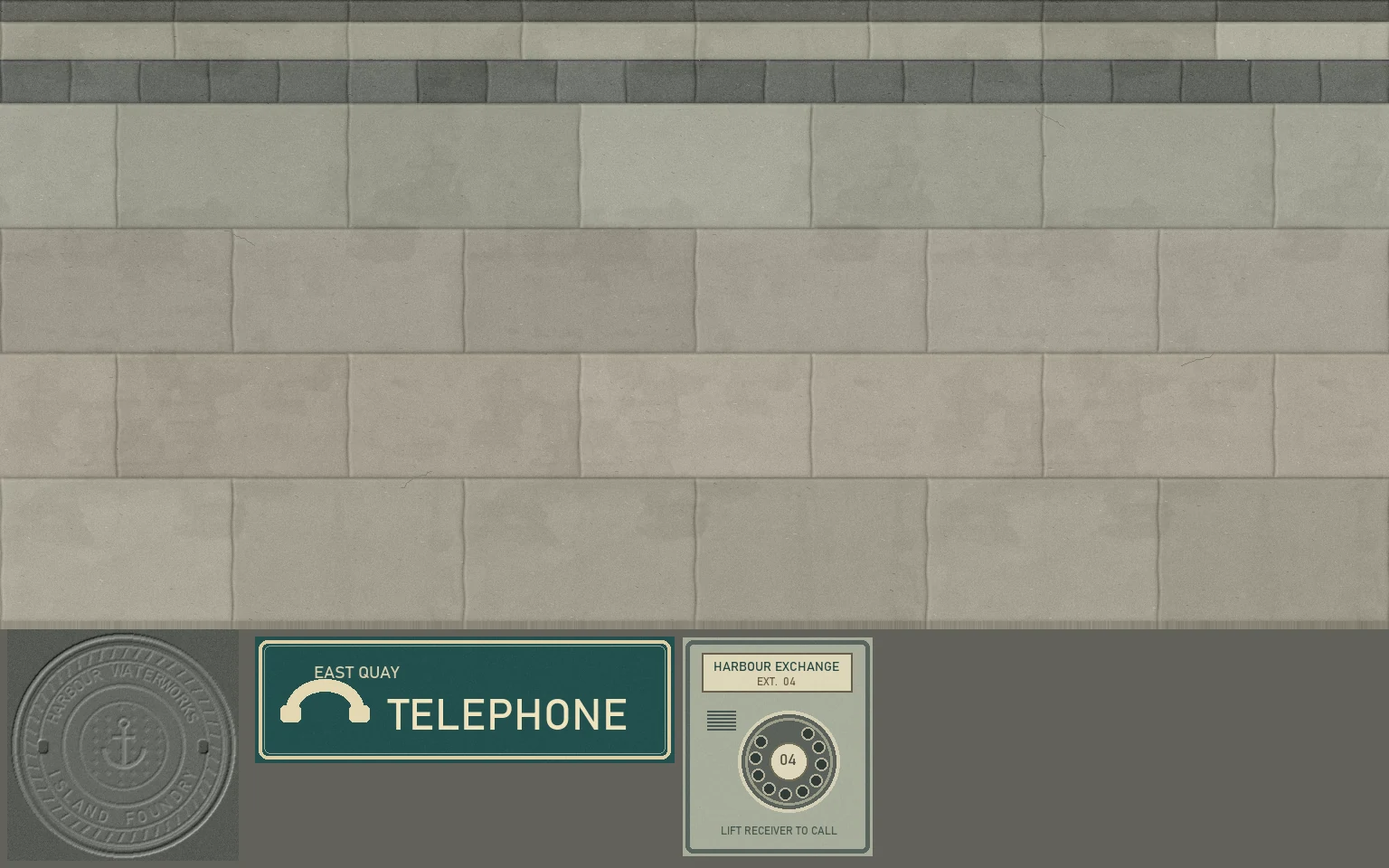
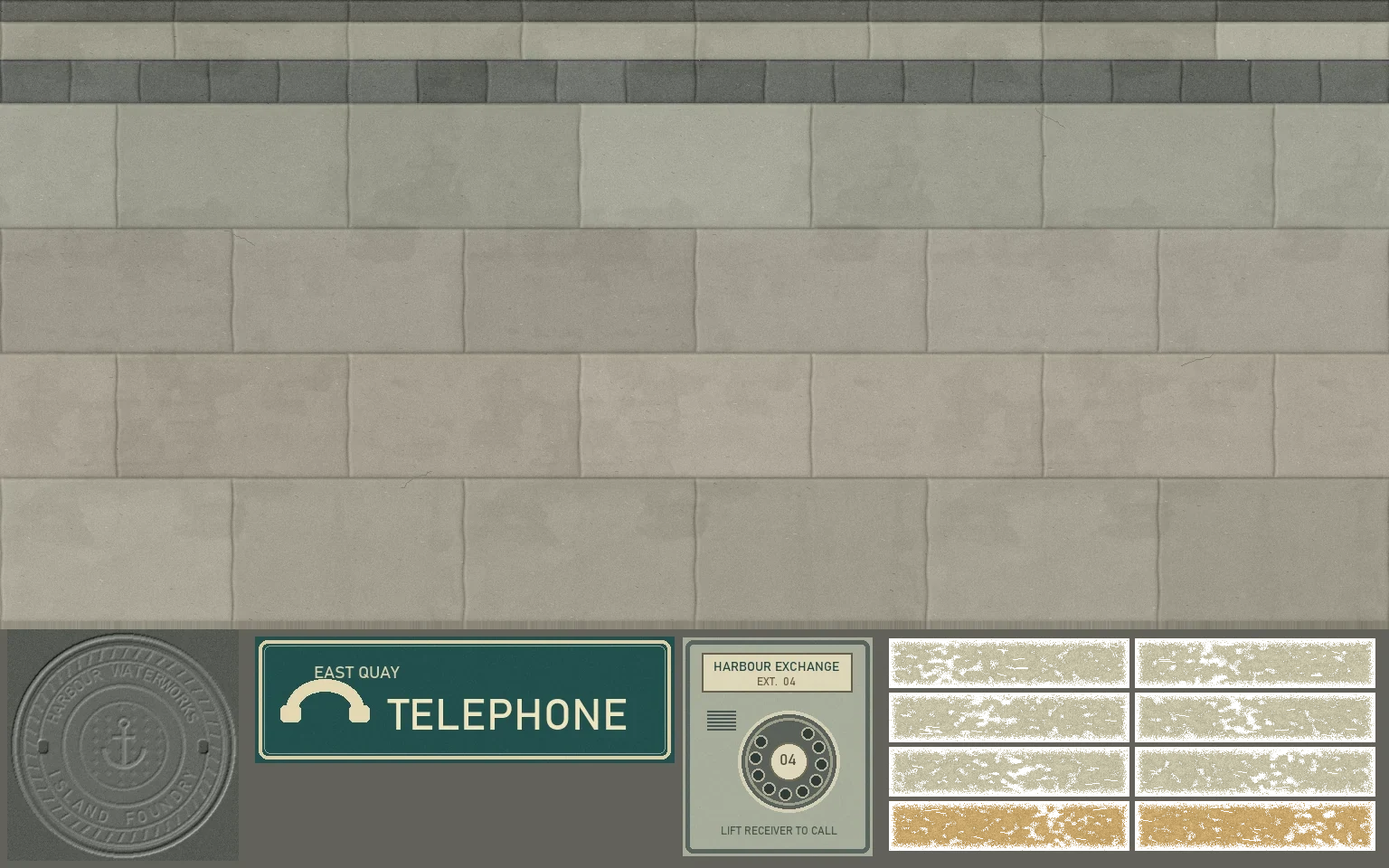
Render Island terrain after opaque geometry and add alpine flurries

Changed region(s): [[0.625, 0.7188, 1.0, 1.0]]

diff --git a/client/ReleaseNotes.tsx b/client/ReleaseNotes.tsx
@@ -6,16 +6,16 @@ const storageKey='eiserne-front-changelog';
 let acknowledgedInSession=false;
 const changes=[
  ['Island und Zeitreise','In der Lobby wählst du die Insel oder eine der drei historischen Karten. Kroenen ist in beiden Welten spielbar. Die übrigen Bonusfiguren und die Sprengrennwagen gehören zur Insel.'],
- ['Begehbare Harbour Road','Östlich der Radarstation liegen Palm Diner, Harbour Supply und Coast Records. Durch die offenen Eingänge gelangst du zu Sitznischen, Warenregalen und Plattenkisten. Die Läden haben eigene Böden, gerahmte Drucke, Verpackungen und Einrichtung. Bei Harbour Supply hängt ein illustrierter Musterkasten für Schiffszubehör samt aufgeschossener Leine. Über den Verkaufsregalen sind sechs Schiffsbeschläge auf beschrifteten Musterbrettern ausgestellt. Der Laden hat eine helle Bretterdecke und einen seegrauen Tresen mit einer Maßskala für Tauwerk. Im Palm Diner stehen Ketchup und Senf auf einem Emailletablett. Meergrüne Wände mit einem cremefarbenen Fliesensockel umgeben den Gastraum. Über dem Tresen hängt die illustrierte Frühstückskarte. Draußen greifen der petrolfarbene Fliesensockel und das neue Fassadenschild die Farben des Innenraums auf. Die Westwand trägt eine gemalte Kaffeereklame. Zur Hafenseite gibt es eine Küchenausgabe mit Emailleablage, belegten Broten und Wärmelampen. Coast Records hat einen Hörplatz mit Holzlautsprechern und dem eigens gestalteten Albumcover „Low Water“. An den Wänden hängen vier weitere illustrierte Cover und die dazugehörigen Schallplatten. Die Decke hat perforierte Akustikkassetten. Plattenkisten und Tresen haben Holzmaserung, Messinggriffe und Karteischilder. Harbour Supply und Coast Records haben eigene Fassadenschilder und beschriftete Schaufenstersockel. Pendelleuchten werfen warme Lichtkegel, und die Schaufenster haben profilierte Rahmen. Am Straßenmast vor dem Palm Diner hängt ein Hafentelefon mit Wählscheibe, Hörer und beidseitigem Emailschild.'],
+ ['Begehbare Harbour Road','Östlich der Radarstation liegen Palm Diner, Harbour Supply und Coast Records. Durch die offenen Eingänge gelangst du zu Sitznischen, Warenregalen und Plattenkisten. Die Läden haben eigene Böden, gerahmte Drucke, Verpackungen und Einrichtung. Bei Harbour Supply hängt ein illustrierter Musterkasten für Schiffszubehör samt aufgeschossener Leine. Über den Verkaufsregalen sind sechs Schiffsbeschläge auf beschrifteten Musterbrettern ausgestellt. Der Laden hat eine helle Bretterdecke und einen seegrauen Tresen mit einer Maßskala für Tauwerk. Im Palm Diner stehen Ketchup und Senf auf einem Emailletablett. Meergrüne Wände mit einem cremefarbenen Fliesensockel umgeben den Gastraum. Über dem Tresen hängt die illustrierte Frühstückskarte. Draußen greifen der petrolfarbene Fliesensockel und das neue Fassadenschild die Farben des Innenraums auf. Die Westwand trägt eine gemalte Kaffeereklame. Zur Hafenseite gibt es eine Küchenausgabe mit Emailleablage, belegten Broten und Wärmelampen. Coast Records hat einen Hörplatz mit Holzlautsprechern und dem eigens gestalteten Albumcover „Low Water“. An den Wänden hängen vier weitere illustrierte Cover und die dazugehörigen Schallplatten. Die Decke hat perforierte Akustikkassetten. Plattenkisten und Tresen haben Holzmaserung, Messinggriffe und Karteischilder. Harbour Supply und Coast Records haben eigene Fassadenschilder und beschriftete Schaufenstersockel. Pendelleuchten werfen warme Lichtkegel, und die Schaufenster haben profilierte Rahmen. Am Straßenmast vor dem Palm Diner hängt ein Hafentelefon mit Wählscheibe, Hörer und beidseitigem Emailschild. Am Fußgängerübergang sind die Bordsteine abgesenkt. Auf den abgefahrenen Markierungen scheint stellenweise der Asphalt durch.'],
  ['Post vom Hafenamt','Die Geschäfte auf Island haben neue Aushänge. Außen an der Ostwand des Diners kannst du am Nachlassschalter mit E einen Bescheid ziehen. Auf Island hat die MP 40 einen Katzenaufsatz mit gedämpftem Schuss.'],
  ['Licht, Küste und Inselstraße','Ein fotografierter Himmel bestimmt Tageslicht und Reflexionen. Nebel und Nacht haben eigene Himmelsverläufe. Asphalt und Pflaster dunkeln bei Nebel durch Feuchtigkeit ab. Die Harbour Road führt durch eine ausgeschilderte Hafeneinfahrt zum Anleger und zum Hafenmeisterbüro. Durch die geöffneten Fenster siehst du das Funkpult, den Hafenplan und die Gezeitentafel. Hinter dem Anleger liegen Hafenkräne und der Frachter Tern Sound mit sichtbaren Stahlplattenstößen, Tiefgangsmarken, Ladebaum und Festmacherleinen. Die Hafenkräne haben verglaste Kabinen, Gegengewichte, Wartungsstege und Seilrollen mit Haken. Am Ufer rollen gestaffelte Wellen mit schmalen Schaumkanten über nassen Sand, entlang der Straße wachsen Sträucher. Die Harbour Road hat einen Zebrastreifen, Straßenabläufe und einen gusseisernen Schachtdeckel mit Hafenanker und Schriftprägung. Gefaste Bordsteine, Pflasterrinnen und versetzte Betonplatten geben den Gehwegen ein eigenes Profil. Felsen haben verwitterte Oberflächen mit dunkleren Gezeitenzonen. Auf Hoch und Ultra zeichnen sich Lichtmuster im flachen Wasser ab. Werkstätten und Depots tragen Dachaufbauten, Fallrohre und verwitterte Sprossenfenster. Die oberen Ladebuchten der Küstenwachen haben beschriftete Stahlrolltore mit Führungsschienen. Die Eingangsschilder sind unter den Vordächern wieder lesbar. Die Radarplattform hat jetzt einen Fachwerkmast, Funkkästen und neu markierte Zugänge.'],
- ['Historische Architektur','In Köln und im Güterviertel findest du Bahnhofsuhren, eiserne Vordächer und gemauerte Gesimse. Der Deutzer Bahnhof hat ein neues Vordach, Wandlaternen und eine Abfahrtstafel am Vorplatz. Zur Brücke hin trägt die Brückenwache ein Emailleschild zwischen Wandlaternen und profilierten Steinsimsen. Die Buchhandlung am Domhof hat Rundbogenfenster, Sandsteinrahmen, schmiedeeiserne Balkone und ein Schriftband zur Brücke. Im Erdgeschoss zeigen gerahmte Schaufenster Bücher, Kölner Ansichten und Karten. Nachts leuchten die Laternen, der Fahrplan und einzelne Fenster der umliegenden Häuser. Hinter den Straßen setzen sich die Häuserzeilen bis zum Horizont fort. Höhere Grafikprofile zeigen zusätzliche Gauben und Dachaufbauten. Die Kölner Eisenbahnbrücke hat ausgearbeitete Stahlbögen, Querverbände und genietete Anschlussbleche. Ihre beiden Gleise haben profilierte Schienen, blanke Laufflächen und gemaserte Schwellen. Auf der Brücke und im Güterviertel stehen hölzerne Güterwagen mit sichtbarem Fahrwerk, Stahlstreben und Puffern. Am Rheinufer stehen Kaimauern mit Hochwassermarken, Auslässen und Landungstreppen. Die Wasseroberfläche zeigt Strömungsrippel. Natursteinplatten, Rinnen und Fahrspuren verbinden Kino und Güterbahnhof. Beladene Handkarren stehen im Güterhof. Die Gleise haben profilierte Schienen mit blanken Laufflächen, Befestigungen und gemaserten Schwellen. An Gleis 2 erkennst du die Paketannahme der Feldpost an ihrer Backsteinfassade und dem gemalten Schild. Am Ende der Gleise stehen ein Bahnwasserturm und ein Wasserkran. Am Turm sind gemauerte Bögen, vertiefte Fugen und genietete Bleche sichtbar. Über dem Kölner Rheinufer ragen die beiden gotischen Domtürme mit Maßwerk und abgestuften Spitzen auf. In den Alpen liegen gestaffelte Kalkgrate mit Schneefeldern hinter den Kasernen. Unterhalb der Grate stehen Tannen mit unregelmäßigen Zweigen, sichtbaren Stämmen und einzelnen Schneespuren. Auf den Kalkblöcken am Pass liegt Schnee auf den oberen Flächen und in flachen Rinnen. Eine eigene Kalksteintextur zeigt Bruchlinien und Mineraladern an Felsen und Berghängen. Die Felshänge schließen an den Passboden an, und die Tannen stehen auf der Geländeoberfläche. Schneeverwehungen, Radspuren und festgetretene Wege verbinden die Kasernen mit der Passstraße. Auf den Dächern liegt ungleichmäßig verteilter Schnee. Am Poste des Alpes schützt ein schneebedecktes Holzvordach den Eingang. Roche-la-Croix hat eine befestigte Betonfront und eine stählerne Beobachtungsglocke. Am Eingang zeigen sich Spuren der Holzschalung, Frostschäden und französische Bauwerksmarkierungen. Darüber sitzen Sprossenfenster mit zurückgeklappten Stahlläden unter einem Kalksteingiebel.'],
+ ['Historische Architektur','In Köln und im Güterviertel findest du Bahnhofsuhren, eiserne Vordächer und gemauerte Gesimse. Der Deutzer Bahnhof hat ein neues Vordach, Wandlaternen und eine Abfahrtstafel am Vorplatz. Zur Brücke hin trägt die Brückenwache ein Emailleschild zwischen Wandlaternen und profilierten Steinsimsen. Die Buchhandlung am Domhof hat Rundbogenfenster, Sandsteinrahmen, schmiedeeiserne Balkone und ein Schriftband zur Brücke. Im Erdgeschoss zeigen gerahmte Schaufenster Bücher, Kölner Ansichten und Karten. Nachts leuchten die Laternen, der Fahrplan und einzelne Fenster der umliegenden Häuser. Hinter den Straßen setzen sich die Häuserzeilen bis zum Horizont fort. Höhere Grafikprofile zeigen zusätzliche Gauben und Dachaufbauten. Die Kölner Eisenbahnbrücke hat ausgearbeitete Stahlbögen, Querverbände und genietete Anschlussbleche. Ihre beiden Gleise haben profilierte Schienen, blanke Laufflächen und gemaserte Schwellen. Auf der Brücke und im Güterviertel stehen hölzerne Güterwagen mit sichtbarem Fahrwerk, Stahlstreben und Puffern. Am Rheinufer stehen Kaimauern mit Hochwassermarken, Auslässen und Landungstreppen. Die Wasseroberfläche zeigt Strömungsrippel. Natursteinplatten, Rinnen und Fahrspuren verbinden Kino und Güterbahnhof. Beladene Handkarren stehen im Güterhof. Die Gleise haben profilierte Schienen mit blanken Laufflächen, Befestigungen und gemaserten Schwellen. An Gleis 2 erkennst du die Paketannahme der Feldpost an ihrer Backsteinfassade und dem gemalten Schild. Am Ende der Gleise stehen ein Bahnwasserturm und ein Wasserkran. Am Turm sind gemauerte Bögen, vertiefte Fugen und genietete Bleche sichtbar. Über dem Kölner Rheinufer ragen die beiden gotischen Domtürme mit Maßwerk und abgestuften Spitzen auf. In den Alpen liegen gestaffelte Kalkgrate mit Schneefeldern hinter den Kasernen. Unterhalb der Grate stehen Tannen mit unregelmäßigen Zweigen, sichtbaren Stämmen und einzelnen Schneespuren. Auf den Kalkblöcken am Pass liegt Schnee auf den oberen Flächen und in flachen Rinnen. Eine eigene Kalksteintextur zeigt Bruchlinien und Mineraladern an Felsen und Berghängen. Die Felshänge schließen an den Passboden an, und die Tannen stehen auf der Geländeoberfläche. Schneeverwehungen, Radspuren und festgetretene Wege verbinden die Kasernen mit der Passstraße. Auf den Dächern liegt ungleichmäßig verteilter Schnee. Am Poste des Alpes schützt ein schneebedecktes Holzvordach den Eingang. Feine Schneeflocken ziehen mit dem Wind durch das Tal und verblassen beim Betreten eines Gebäudes. Roche-la-Croix hat eine befestigte Betonfront und eine stählerne Beobachtungsglocke. Am Eingang zeigen sich Spuren der Holzschalung, Frostschäden und französische Bauwerksmarkierungen. Darüber sitzen Sprossenfenster mit zurückgeklappten Stahlläden unter einem Kalksteingiebel.'],
  ['Uniformen und Hände','Jacken und Hosen haben sichtbare Nähte und Falten. Auf Island tragen Figuren Tarnstoff, geformte Schutzwesten und gebogene Schutzgläser. Die beiden Island-Uniformen haben eigene Gesichter mit unterschiedlichem Bartwuchs, geformte Rucksäcke und sichtbare Schultergurte. Helme und Stiefel werfen vollständigere Schatten. Kontaktschatten unter den Stiefeln drehen mit der Figur und folgen geneigtem Gelände. Stiefel rollen beim Gehen und Joggen sichtbarer am Boden ab. Beim Seitwärtslaufen bleibt die Schrittführung stabil. Zeitreise-Uniformen tragen flach anliegendes Gurtzeug und geformte Taschen. In der Egoansicht siehst du Gewebestruktur, Ärmelbündchen und Details an den Händen. Hautfalten, Knöchel und abgenutzte Bündchen reflektieren unterschiedlich. Warme Raumlampen beleuchten auch Hände und Ärmel.'],
  ['Union-Lichtspiele','Im Güterviertel von Operation Abendrot steht am Platz der Alten Mühle das begehbare Kino mit Art-déco-Portal und KINO-Schriftpfeiler. Nachts sind die Schrift und der Eingang beleuchtet. Vor der Tür greift ein bündiges Terrazzo-Medaillon das Fächermotiv des Portals auf. Sechs historische Propagandaplakate hängen in den Schaukästen. Im Saal rahmt ein geraffter Samtvorhang mit Messingsims das Archivfoto von 1935. Vier Sitzreihen haben Polsterrücken, über ihnen gliedern Deckenrippen den Raum.'],
  ['Zielfernrohre und historische Ausrüstung','Das Gewehr 43 mit ZF4 ergänzt den Karabiner 98k mit ZF39. Halte die rechte Maustaste für den vierfachen Zoom. Du kannst beim Zielen mit der linken Maustaste schießen.'],
  ['Zeichen und Auszeichnungen','In Köln und im Güterviertel findest du historische Luftschutzzeichen. Nach historischen Gefechten zeigt die Ergebnisansicht verdiente Auszeichnungen.'],
  ['Lobby und Fahrparcours','Die Spielauswahl nutzt auf großen Bildschirmen mehr Breite. Die Einsatzsteuerung sitzt unten. Im Inseltraining führt der Rennwagenparcours an der Küste durch eine Unterführung.'],
- ['Flüssigeres Umsehen','Beim Blick auf geschlossene Ladenwände begrenzt der Renderer die Sichttiefe auf den Raum und spart verdeckte Teile der Insel aus. In „Hoch“ und „Ultra“ beschränkt das Spiel die Schattenkarte auch auf der Straße auf den Ausschnitt, den die Kamera und die Waffe benötigen. In „Hoch“ und „Ultra“ wird statische Raumausstattung außerhalb des Bilds übersprungen. Für die Umgebungsverschattung werden feste Möbel pro Raum zusammen gezeichnet. Sichtbare Schatten bleiben erhalten. Der Modus „Flüssig“ passt die interne Auflösung an die GPU-Auslastung an. Leuchtspuren werden gemeinsam gezeichnet. Bei Treffereffekten, Rauch und Mündungsblitzen überträgt das Spiel nur sichtbare Partikeldaten. Staub und Metallfunken sehen unterschiedlich aus. Explosionen zeigen einen kurzen Feuerblitz und Staub, der sich ausbreitet. Zerbrechende Scheiben streuen unterschiedlich geformte Splitter, die zusammen gezeichnet werden. Uniformteile werden gemeinsam gezeichnet. Entfernte Standardfiguren nutzen beim normalen Blick ein leichteres Körpermodell. Hoch und Ultra richten den Wechsel nach der tatsächlichen Renderauflösung. Die offene Visierung behält diese Abstufung, das Zielfernrohr zeigt das Vollmodell. Entfernte Deckungskisten bekommen in „Hoch“ einfachere Schatten, auch wenn direkt vor dir eine Kiste steht. Kantenglättung und Farbausgabe teilen sich einen Renderdurchlauf. Glatte Bildflächen bekommen keine falschen Kantenmarkierungen mehr. Die Kantenmaske benötigt bei 1080p rund 4 MiB weniger Grafikspeicher. Das Spiel spart dabei einen HDR-Zwischenpuffer und zwei überflüssige Löschvorgänge in der Kantenglättung. Die Umgebungsverdeckung verwendet kleinere Zwischenpuffer und berechnet die Tiefenproben mit weniger GPU-Aufwand. Auf „Hoch“ benötigt der Normalenpuffer bei 1080p etwa 2 MiB weniger Grafikspeicher. Innenraumschilder teilen sich pro Karte eine Textur. Die Ausrichtung von Armen und Händen bei Spielfiguren braucht weniger Matrixberechnungen. Beim Werfen und Kriechen werden nur die betroffenen Gelenkketten aktualisiert. Überschriebene Kopf- und Brustbewegungen werden bei Standardfiguren nur einmal berechnet. Der Himmel kann den Farbpuffer direkt füllen. Der Tiefenpuffer liegt im Renderziel der Spielwelt. Punktlichter werden nur innerhalb ihrer Reichweite berechnet. Auf sonnenabgewandten Flächen entfallen unnötige Schattenabfragen. Auf unterstützten Systemen bündelt der Renderer opake Fassaden auf Island in „Hoch“ und „Ultra“. Zierglasscheiben innerhalb massiver Fabrikwände entfallen beim Rendern. Beim Blick auf geschlossene Ladenwände entfällt auch der Himmelsdurchlauf. Die Abschussliste und die persönliche Statusanzeige werden nur bei sichtbaren Änderungen neu aufgebaut. Die Highlight-Aufzeichnung verwendet vorhandene Netzwerk-Spielstände und vermeidet vollständige Kopien. Netzwerk-Updates übernehmen unveränderte Objekte aus dem vorherigen Spielstand. Bei unveränderten Innenräumen bleiben Türen und Kollisionsdaten im Speicher. Gestikulierende Bewohner finden ihre Fingergelenke jetzt ohne erneute Suche im Figurenmodell. Beim Wechsel zwischen Joggen und Sprinten behalten Figuren ihre Schrittphase. Die Offiziersmützen auf den Zeitreise-Karten sitzen tiefer auf der Stirn und haben eine gewölbte Krone. Der Offizier trägt jetzt einen gefalteten Hemdkragen, eine Krawatte und eine blaugraue Jacke. Der Schal des Veteranen ist gewickelt und fällt in einer Stofffalte über die Jacke. Dazu trägt er einen kürzeren graumelierten Bart und eine kleinere Brille, die näher am Gesicht sitzt. Sein Haaransatz nutzt die Kopftextur. Bei der Fußplatzierung auf dem Boden entfällt ein Durchlauf durch das Figurenmodell. Beim Berechnen des Kamerasichtfelds entfallen doppelte Aktualisierungen am sichtbaren Waffenmodell. Die Munitionsanzeige folgt der Waffe, ohne das Seitenlayout bei jeder Bewegung neu zu berechnen. Die Bewegung prüft Hindernisse nur auf Achsen, auf denen sich die Figur tatsächlich bewegt. Auf Island liest der Renderer die festen Übergänge zwischen Gras, Fahrspur und Sand aus einer vorberechneten Geländemaske. Das Spiel erstellt abgelegte Figuren mit weniger Rechenarbeit. Bots können den zuvor versperrten Ausrüstungspunkt auf Island erreichen. HUD und Menüs bleiben scharf.'],
+ ['Flüssigeres Umsehen','Beim Blick auf geschlossene Ladenwände begrenzt der Renderer die Sichttiefe auf den Raum und spart verdeckte Teile der Insel aus. In „Hoch“ und „Ultra“ beschränkt das Spiel die Schattenkarte auch auf der Straße auf den Ausschnitt, den die Kamera und die Waffe benötigen. In „Hoch“ und „Ultra“ wird statische Raumausstattung außerhalb des Bilds übersprungen. Für die Umgebungsverschattung werden feste Möbel pro Raum zusammen gezeichnet. Sichtbare Schatten bleiben erhalten. Der Modus „Flüssig“ passt die interne Auflösung an die GPU-Auslastung an. Leuchtspuren werden gemeinsam gezeichnet. Bei Treffereffekten, Rauch und Mündungsblitzen überträgt das Spiel nur sichtbare Partikeldaten. Staub und Metallfunken sehen unterschiedlich aus. Explosionen zeigen einen kurzen Feuerblitz und Staub, der sich ausbreitet. Zerbrechende Scheiben streuen unterschiedlich geformte Splitter, die zusammen gezeichnet werden. Uniformteile werden gemeinsam gezeichnet. Entfernte Standardfiguren nutzen beim normalen Blick ein leichteres Körpermodell. Hoch und Ultra richten den Wechsel nach der tatsächlichen Renderauflösung. Die offene Visierung behält diese Abstufung, das Zielfernrohr zeigt das Vollmodell. Entfernte Deckungskisten bekommen in „Hoch“ einfachere Schatten, auch wenn direkt vor dir eine Kiste steht. Kantenglättung und Farbausgabe teilen sich einen Renderdurchlauf. Glatte Bildflächen bekommen keine falschen Kantenmarkierungen mehr. Die Kantenmaske benötigt bei 1080p rund 4 MiB weniger Grafikspeicher. Das Spiel spart dabei einen HDR-Zwischenpuffer und zwei überflüssige Löschvorgänge in der Kantenglättung. Die Umgebungsverdeckung verwendet kleinere Zwischenpuffer und berechnet die Tiefenproben mit weniger GPU-Aufwand. Auf „Hoch“ benötigt der Normalenpuffer bei 1080p etwa 2 MiB weniger Grafikspeicher. Innenraumschilder teilen sich pro Karte eine Textur. Die Ausrichtung von Armen und Händen bei Spielfiguren braucht weniger Matrixberechnungen. Beim Werfen und Kriechen werden nur die betroffenen Gelenkketten aktualisiert. Überschriebene Kopf- und Brustbewegungen werden bei Standardfiguren nur einmal berechnet. Der Himmel kann den Farbpuffer direkt füllen. Der Tiefenpuffer liegt im Renderziel der Spielwelt. Punktlichter werden nur innerhalb ihrer Reichweite berechnet. Auf sonnenabgewandten Flächen entfallen unnötige Schattenabfragen. Auf unterstützten Systemen bündelt der Renderer opake Fassaden auf Island in „Hoch“ und „Ultra“. Zierglasscheiben innerhalb massiver Fabrikwände entfallen beim Rendern. Beim Blick auf geschlossene Ladenwände entfällt auch der Himmelsdurchlauf. Die Abschussliste und die persönliche Statusanzeige werden nur bei sichtbaren Änderungen neu aufgebaut. Die Highlight-Aufzeichnung verwendet vorhandene Netzwerk-Spielstände und vermeidet vollständige Kopien. Netzwerk-Updates übernehmen unveränderte Objekte aus dem vorherigen Spielstand. Bei unveränderten Innenräumen bleiben Türen und Kollisionsdaten im Speicher. Gestikulierende Bewohner finden ihre Fingergelenke jetzt ohne erneute Suche im Figurenmodell. Beim Wechsel zwischen Joggen und Sprinten behalten Figuren ihre Schrittphase. Die Offiziersmützen auf den Zeitreise-Karten sitzen tiefer auf der Stirn und haben eine gewölbte Krone. Der Offizier trägt jetzt einen gefalteten Hemdkragen, eine Krawatte und eine blaugraue Jacke. Der Schal des Veteranen ist gewickelt und fällt in einer Stofffalte über die Jacke. Dazu trägt er einen kürzeren graumelierten Bart und eine kleinere Brille, die näher am Gesicht sitzt. Sein Haaransatz nutzt die Kopftextur. Bei der Fußplatzierung auf dem Boden entfällt ein Durchlauf durch das Figurenmodell. Die Fingerposen der Bewohner werden beim Laden vorbereitet. Beim Berechnen des Kamerasichtfelds entfallen doppelte Aktualisierungen am sichtbaren Waffenmodell. Die Munitionsanzeige folgt der Waffe, ohne das Seitenlayout bei jeder Bewegung neu zu berechnen. Die Bewegung prüft Hindernisse nur auf Achsen, auf denen sich die Figur tatsächlich bewegt. Auf Island liest der Renderer die festen Übergänge zwischen Gras, Fahrspur und Sand aus einer vorberechneten Geländemaske. Undurchsichtige Gebäude werden vor dem Boden gezeichnet, damit die GPU verdeckte Bodenfläche überspringt. Das Spiel erstellt abgelegte Figuren mit weniger Rechenarbeit. Bots können den zuvor versperrten Ausrüstungspunkt auf Island erreichen. HUD und Menüs bleiben scharf.'],
 ] as const;
 
 export function ReleaseNotes(){

diff --git a/client/islandStreet.ts b/client/islandStreet.ts
@@ -47,18 +47,28 @@ export function addIslandStreet(scene:T.Group){
   const paving=loader.load(base+'concrete.webp');
   paving.colorSpace=T.SRGBColorSpace;paving.wrapS=paving.wrapT=T.RepeatWrapping;
   paving.anisotropy=4;
-  const pavingMaterial=new T.MeshStandardMaterial({map:paving,roughness:.98});
+  const pavingMaterial=new T.MeshStandardMaterial({map:paving,roughness:.98,alphaTest:.30});
+  const crossingX=68.95;
   for(const side of [-1,1]){
     const kerb=-23+side*4.62;
-    cuboid(63,.068,kerb+side*1.75,64,.135,3.4,concrete);
     // Fold the curb, its bevel and the apron into the same strip. Kerb joints
     // continue up the riser and the drainage course always faces the carriageway.
-    const profile=[[-.12,.053,0],[-.12,.115,20],[-.09,.144,26],[.12,.144,66],[3.45,.139,688]];
+    const profile=[[-.12,.053,0],[-.12,.115,20],[-.09,.144,26],[.12,.144,66],[1.30,.142,286],[3.45,.139,688],[3.45,.016,665]];
     const points:number[]=[],texcoords:number[]=[],indices:number[]=[];
-    for(let i=0;i<profile.length-1;i++){
+    // Drop the stone lip at each end of the crossing. The sloping apron returns
+    // to the full pavement height before the shop thresholds.
+    const cx=crossingX-63,cuts=[-32,cx-1.86,cx-1.16,cx+1.16,cx+1.86,32];
+    function ramp(x:number,offset:number,level:number){
+      const along=T.MathUtils.clamp((1.86-Math.abs(x-cx))/.70,0,1);
+      const across=T.MathUtils.clamp((1.30-offset)/1.18,0,1);
+      return level-Math.max(0,level-.062)*along*across;
+    }
+    for(let span=0;span<cuts.length-1;span++)for(let i=0;i<profile.length-1;i++){
       const [start,low,v0]=profile[i],[end,high,v1]=profile[i+1],n=points.length/3;
-      points.push(-32,low,side*start,-32,high,side*end,32,high,side*end,32,low,side*start);
-      texcoords.push(0,1-v0/960,0,1-v1/960,8,1-v1/960,8,1-v0/960);
+      const a=cuts[span],b=cuts[span+1],u0=(a+32)/8,u1=(b+32)/8;
+      points.push(a,ramp(a,start,low),side*start,a,ramp(a,end,high),side*end,
+        b,ramp(b,end,high),side*end,b,ramp(b,start,low),side*start);
+      texcoords.push(u0,1-v0/960,u0,1-v1/960,u1,1-v1/960,u1,1-v0/960);
       if(side===1)indices.push(n,n+1,n+2,n,n+2,n+3);
       else indices.push(n,n+2,n+1,n,n+3,n+2);
     }
@@ -70,8 +80,7 @@ export function addIslandStreet(scene:T.Group){
   }
   // Recesses and uneven paint make the carriageway read as a working street.
   // All road details sit below step height and share the existing street batches.
-  const gutter=paint('#383b37'),grate=paint('#696861'),roadPaint=paint('#c4bba1');
-  const wear=paint('#a49c85');
+  const gutter=paint('#383b37'),grate=paint('#696861');
   for(const side of [-1,1]){
     const z=-23+side*4.32;
     cuboid(63,.058,z,63.5,.004,.14,gutter);
@@ -80,13 +89,18 @@ export function addIslandStreet(scene:T.Group){
       for(let i=0;i<8;i++)cuboid(x+(i-3.5)*.087,.067,z,.033,.007,.38,grate);
     }
   }
-  for(let x=33;x<94;x+=6)if(x!==69)cuboid(x,.064,-23,2.9,.012,.12,trim);
-  // The crossing sits between shop entrances, clear of the center dashes.
+  // Missing flakes reveal the actual road aggregate through the paint.
+  function stripe(x:number,z:number,w:number,d:number,tile:number){
+    const geometry=new T.PlaneGeometry(w,d),uv=geometry.getAttribute('uv');
+    const left=983+tile%2*272,top=706+Math.floor(tile/2)*60;
+    for(let i=0;i<uv.count;i++)uv.setXY(i,(left+1+264*uv.getX(i))/1536,1-(top+54-53*uv.getY(i))/960);
+    // Share the centre and culling bounds of the continuous street apron.
+    geometry.rotateX(-Math.PI/2).translate(x-63,0,z+23);
+    solid(geometry,63,.0595,-23,pavingMaterial);
+  }
+  for(let x=33;x<94;x+=6)if(x!==69)stripe(x,-23,2.9,.135,6+(x-33)/6%2);
   for(let i=0;i<9;i++){
-    const z=-23+(i-4)*.84;
-    const x=68.95+.04*Math.sin(i*4);
-    cuboid(x,.063,z,1.64,.004,.37,roadPaint);
-    cuboid(x+.49*Math.cos(i*3),.066,z+.085,.40,.003,.17,wear);
+    stripe(crossingX+.025*Math.sin(i*4),-23+(i-4)*.84,2.20,.42,i%6);
   }
   const manhole=new T.Mesh(new T.CylinderGeometry(.39,.39,.018,20),gutter);
   manhole.position.set(57.2,.061,-24.85);manhole.receiveShadow=true;street.add(manhole);

diff --git a/client/civilianCharacter.ts b/client/civilianCharacter.ts
@@ -41,10 +41,20 @@ export function createCivilianCharacter(data:CivilianCharacterData,residentId='r
  const feet=['Bip01_L_Foot','Bip01_R_Foot'].map(name=>group.getObjectByName(name)).filter((foot):foot is T.Object3D=>!!foot),footGround=Math.min(...feet.map(foot=>group.worldToLocal(foot.getWorldPosition(new T.Vector3())).y));
  const arms={armL:rigArm(group,['Bip01_L_UpperArm','Bip01_L_Forearm','Bip01_L_Hand']),armR:rigArm(group,['Bip01_R_UpperArm','Bip01_R_Forearm','Bip01_R_Hand'])};
  const held=createActorEquipment(group,arms,true,false,purpose==='actor');
- const fingers:{bone:T.Object3D;rest:T.Quaternion;axis:T.Vector3;side:'armL'|'armR';digit:number;joint:number}[]=[];
+ const fingers:{bone:T.Object3D;relaxed:T.Quaternion;gesture:T.Quaternion;side:'armL'|'armR'}[]=[];
  for(const side of ['L','R'] as const){const index=group.getObjectByName(`Bip01_${side}_Finger1`),pinky=group.getObjectByName(`Bip01_${side}_Finger4`);if(!index||!pinky)continue;
   const across=index.getWorldPosition(new T.Vector3()).sub(pinky.getWorldPosition(new T.Vector3())).normalize();
-  group.traverse(bone=>{const match=bone.name.match(new RegExp(`^Bip01_${side}_Finger([0-4])([12]?)$`));if(!match)return;fingers.push({bone,rest:bone.quaternion.clone(),axis:across.clone().applyQuaternion(bone.getWorldQuaternion(q).invert()).normalize(),side:side==='L'?'armL':'armR',digit:Number(match[1]),joint:Number(match[2]||0)});});
+  const fingerName=new RegExp(`^Bip01_${side}_Finger([0-4])([12]?)$`);
+  group.traverse(bone=>{
+   const match=bone.name.match(fingerName);if(!match)return;
+   const digit=Number(match[1]),joint=Number(match[2]||0);
+   const axis=across.clone().applyQuaternion(bone.getWorldQuaternion(q).invert()).normalize();
+   const relaxedAngle=digit===0?.08:joint===0?.12:.18;
+   const gestureAngle=digit===2?0:digit===0?.65:joint===1?1.3:.9;
+   fingers.push({bone,side:side==='L'?'armL':'armR',
+    relaxed:bone.quaternion.clone().multiply(rotation.setFromAxisAngle(axis,relaxedAngle)),
+    gesture:bone.quaternion.clone().multiply(rotation.setFromAxisAngle(axis,gestureAngle))});
+  });
  }
  function handJoints(suffix:'L'|'R'){
   const finger=(index:string)=>group.getObjectByName(`Bip01_${suffix}_Finger${index}`);
@@ -103,7 +113,7 @@ export function createCivilianCharacter(data:CivilianCharacterData,residentId='r
     body.position.y+=footGround-lowest;group.updateWorldMatrix(true,true);
    }
    const gesturing=player.hp>0&&player.gestureUntil>now&&!isCrawling(player),gestureSide=hasLost(player,'armL')?'armR':'armL';
-   for(const finger of fingers){const active=gesturing&&finger.side===gestureSide,angle=active?(finger.digit===2?0:finger.digit===0?.65:finger.joint===0?.9:finger.joint===1?1.3:.9):finger.digit===0?.08:finger.joint===0?.12:.18;finger.bone.quaternion.copy(finger.rest).multiply(rotation.setFromAxisAngle(finger.axis,angle));}
+   for(const finger of fingers)finger.bone.quaternion.copy(gesturing&&finger.side===gestureSide?finger.gesture:finger.relaxed);
    held.update(player,time,now);for(const side of ['armL','armR'] as const)if(!hasLost(player,side)&&(!gesturing||side!==gestureSide))relaxedHand(side);if(gesturing&&!hasLost(player,gestureSide))gesture(gestureSide);
   },
   setHeadVisible(visible:boolean){if(head&&headScale)head.scale.copy(headScale).multiplyScalar(visible?1:.001);},

diff --git a/client/alpineBackdrop.ts b/client/alpineBackdrop.ts
@@ -1,6 +1,67 @@
 import * as T from 'three';
 
 const tau=Math.PI*2;
+
+export function createAlpineFlurries(scene:T.Scene){
+  const positions=new Float32Array(320*3);
+  let seed=34851;
+  for(let i=0;i<positions.length;i++){
+    seed=(Math.imul(seed,1664525)+1013904223)>>>0;
+    positions[i]=seed/4294967296;
+  }
+  const geometry=new T.BufferGeometry();
+  geometry.setAttribute('position',new T.BufferAttribute(positions,3));
+  const uniforms={
+    eye:{value:new T.Vector3()},seconds:{value:0},opacity:{value:0},
+    tint:{value:new T.Color('#eceff3')},pixelRatio:{value:1}
+  };
+  const material=new T.ShaderMaterial({
+    uniforms,transparent:true,depthWrite:false,
+    vertexShader:`
+      uniform vec3 eye;
+      uniform float seconds, pixelRatio;
+      varying float vFade;
+      void main(){
+        vec3 span=vec3(38.0,12.0,38.0);
+        vec3 drift=vec3(seconds*.72,-seconds*(.50+position.y*.52),seconds*.26);
+        drift.x+=sin(seconds*1.26+position.z*24.0)*.31;
+        vec3 offset=mod(position*span+drift-eye+span*.5,span)-span*.5;
+        vec4 point=viewMatrix*vec4(eye+offset,1.0);
+        float distanceToEye=length(offset);
+        vFade=smoothstep(1.2,3.8,distanceToEye)*(1.0-smoothstep(10.0,18.0,distanceToEye));
+        vFade*=1.0-smoothstep(4.6,6.0,abs(offset.y));
+        gl_PointSize=clamp(13.0/max(1.0,-point.z),1.15,3.1)*pixelRatio;
+        gl_Position=projectionMatrix*point;
+      }`,
+    fragmentShader:`
+      uniform vec3 tint;
+      uniform float opacity;
+      varying float vFade;
+      void main(){
+        vec2 p=(gl_PointCoord-.5)*2.0;
+        float feather=1.0-smoothstep(.14,1.0,dot(p,p));
+        gl_FragColor=vec4(tint,opacity*vFade*feather);
+        #include <tonemapping_fragment>
+        #include <colorspace_fragment>
+      }`
+  });
+  const snow=new T.Points(geometry,material);
+  snow.name='Windblown Alpine flurries';snow.frustumCulled=false;snow.visible=false;
+  scene.add(snow);
+  return {
+    update(eye:T.Vector3,time:number,dt:number,covered:boolean,condition:string|undefined,pixelRatio:number){
+      const target=covered?0:condition==='fog'?.58:condition==='night'?.31:.39;
+      uniforms.opacity.value+=(target-uniforms.opacity.value)*Math.min(1,dt*6);
+      snow.visible=uniforms.opacity.value>.008;
+      uniforms.eye.value.copy(eye);
+      uniforms.seconds.value=time;
+      uniforms.tint.value.set(condition==='night'?'#b0c6eb':'#f4f7fd');
+      uniforms.pixelRatio.value=pixelRatio;
+    },
+    dispose(){snow.removeFromParent();geometry.dispose();material.dispose();}
+  };
+}
+
 const primary=[68,40,44,27,49,43,56,31,26,43,38,65,48,33,50,46,32,57,72,51,29,44,33,52];
 const outer=[67,91,59,76,52,62,86,68,88,58,73,53,84,57,67,83,72,55,66,88,57,75,48,80];
 function crest(angle:number,samples:number[]){

diff --git a/client/scene.ts b/client/scene.ts
@@ -43,6 +43,7 @@ import type {GraphicsQuality} from './graphicsSettings.ts';
 import {createRiver,addFacadeDetails,addAlpineBackdrop,batchStaticMeshes} from './scenery.ts';
 import {createCologneCathedral} from './cologneCathedral';
 import {alpinePassGround} from './alpinePassGround';
+import {createAlpineFlurries} from './alpineBackdrop';
 import {createCologneBridgeSteel} from './cologneBridge';
 import {cologneBridgeTracks} from './freightStreet';
 import {createMaterials,projectBoxUVs} from './materials.ts';
@@ -96,6 +97,7 @@ export function createScene(
   scene.fog = new T.FogExp2("#bbc5cc",.0028);
   scene.environment=environment.texture;scene.environmentIntensity=.35;
   const camera = new T.PerspectiveCamera(72, 1, 0.08, 350);
+  const alpineFlurries=mapId==='alpine'?createAlpineFlurries(scene):undefined;
   const cameraMotion=new CameraMotion();let eyeHeight=1.6,sprintToggled=false;
   const chaseTarget=new T.Vector3(),chaseCamera=new T.Vector3(),chaseRay=new T.Vector3();
   const controlledCar=()=>snapshot?.phase==='playing'&&local?.hp&&!local.downedUntil
@@ -1021,6 +1023,7 @@ export function createScene(
     skyLight.intensity+=(ambient*skyAccess-skyLight.intensity)*adapt;
     scene.environmentIntensity+=(reflection*skyAccess-scene.environmentIntensity)*adapt;
     river?.update(t/1000);
+    alpineFlurries?.update(eye,t/1000,dt,covered,condition,renderer.getPixelRatio());
     mapDetails.update(t/1000);
     environmentUpgrade.update(camera.position,quality);
     sceneAssets.updateCrates(camera,aimBlend>.04);
@@ -1057,6 +1060,7 @@ export function createScene(
     dispose() {
       stopped = true;
       contactShadows.dispose();
+      alpineFlurries?.dispose();
       residentVoice.dispose();
       hudResize.disconnect();wanderers.dispose();interiors.dispose();interactionHint.remove();
       ammoReadout.remove();scope.remove();

diff --git a/client/battleTerrain.ts b/client/battleTerrain.ts
@@ -82,5 +82,10 @@ diffuseColor.rgb*=mix(.88,1.05,battleN);
   shader.fragmentShader=shader.fragmentShader.replace('#include <normal_fragment_maps>',`vec3 battleNormal=mix(texture2D(normalMap,vNormalMapUv${terrainScale}).xyz,texture2D(battleSoilNormal,vNormalMapUv).xyz,battleMask)*2.0-1.0;battleNormal.xy*=normalScale;normal=normalize(tbn*battleNormal);`);
  };
  material.customProgramCacheKey=()=>`battle-terrain-v3-${world.id}`;
- const mesh=new T.Mesh(createTerrainGeometry(world),material);mesh.name='shared-heightfield-'+world.id;mesh.receiveShadow=true;return {mesh,dispose(){control?.dispose();material.dispose();}};
+ const mesh=new T.Mesh(createTerrainGeometry(world),material);
+ mesh.name='shared-heightfield-'+world.id;
+ mesh.receiveShadow=true;
+ // Let opaque buildings fill depth before shading the terrain behind them.
+ if(world.id==='storm')mesh.renderOrder=1;
+ return {mesh,dispose(){control?.dispose();material.dispose();}};
 }

diff --git a/tests/harbour-road-battle.py b/tests/harbour-road-battle.py
@@ -399,7 +399,7 @@ with sync_playwright() as pw:
     assert page.evaluate('harbourQA.state.operation.config.difficulty') == difficulty
     print(map_id,'battle started with',bots,'bots',flush=True)
     exposed_cells=set()
-    def approach(on_failure=None):
+    def approach(on_failure=None, goal=(51,-23)):
         # Plan around the actual map colliders, including closed doors at this spawn.
         # All movement still goes through the mouse and keyboard.
         def find_route():
@@ -424,7 +424,6 @@ with sync_playwright() as pw:
                     for iz in range(math.ceil(bz-bd/2-1),math.floor(bz+bd/2+1)+1):
                         occupied.add((ix,iz))
             origin=tuple(round(v) for v in start)
-            goal=(51,-23)
             opened=[(0,0,origin)]
             parent={origin:None}
             cost={origin:0}
@@ -545,7 +544,13 @@ with sync_playwright() as pw:
         browser.close()
         raise SystemExit(0)
 
-    suffix=f'-{condition}' if condition else ''
+    shops=[('harbour-supply','Harbour Supply',51,-9,-18),('diner','Diner',63,-36,-28),
+           ('coast-records','Coast Records',75,-9,-18)]
+    only_shop=os.environ.get('HARBOUR_SHOP')
+    if only_shop:
+        shops=[shop for shop in shops if shop[0]==only_shop]
+        assert shops, ('Unknown HARBOUR_SHOP',only_shop)
+    suffix=(f'-{condition}' if condition else '')+(f'-{only_shop}' if only_shop else '')
     report_path=OUT/f'report-{bots}-bots-{width}x{height}{suffix}{quality_suffix}.json'
     run_id=time.time_ns()
     checkpoint=report_path.with_name(f'{report_path.stem}-{run_id}.partial.json')
@@ -559,7 +564,7 @@ with sync_playwright() as pw:
         write_report(checkpoint,report)
     write_report(checkpoint,report)
     print('Harbour Road checkpoint:',checkpoint,flush=True)
-    approach(record_failure)
+    approach(record_failure,(shops[0][2],-23))
     road_profiler=None
     if os.environ.get('BATTLE_CPU_PROFILE')=='1':
         road_profiler=page.context.new_cdp_session(page)
@@ -567,7 +572,7 @@ with sync_playwright() as pw:
         road_profiler.send('Profiler.setSamplingInterval',{'interval':1500})
         road_profiler.send('Profiler.start')
         profile_start=page.evaluate('performance.now()')
-    for name,x,inside,door in [('Harbour Supply',51,-9,-18),('Diner',63,-36,-28),('Coast Records',75,-9,-18)]:
+    for _,name,x,inside,door in shops:
         for attempt in range(3):
             try:
                 life=page.evaluate('harbourQA.player.life')
@@ -596,7 +601,7 @@ with sync_playwright() as pw:
                     raise
                 print(name,'nach Gefechtstod erneut gestartet:',event,flush=True)
                 recover_life(page)
-                approach(record_failure)
+                approach(record_failure,(x,-23))
         print('Exited',name,flush=True)
     page.screenshot(path=str(OUT/f'island-live-{width}x{height}.jpg'),type='jpeg',quality=88)
     if os.environ.get('HARBOUR_CLAIMS')=='1':
